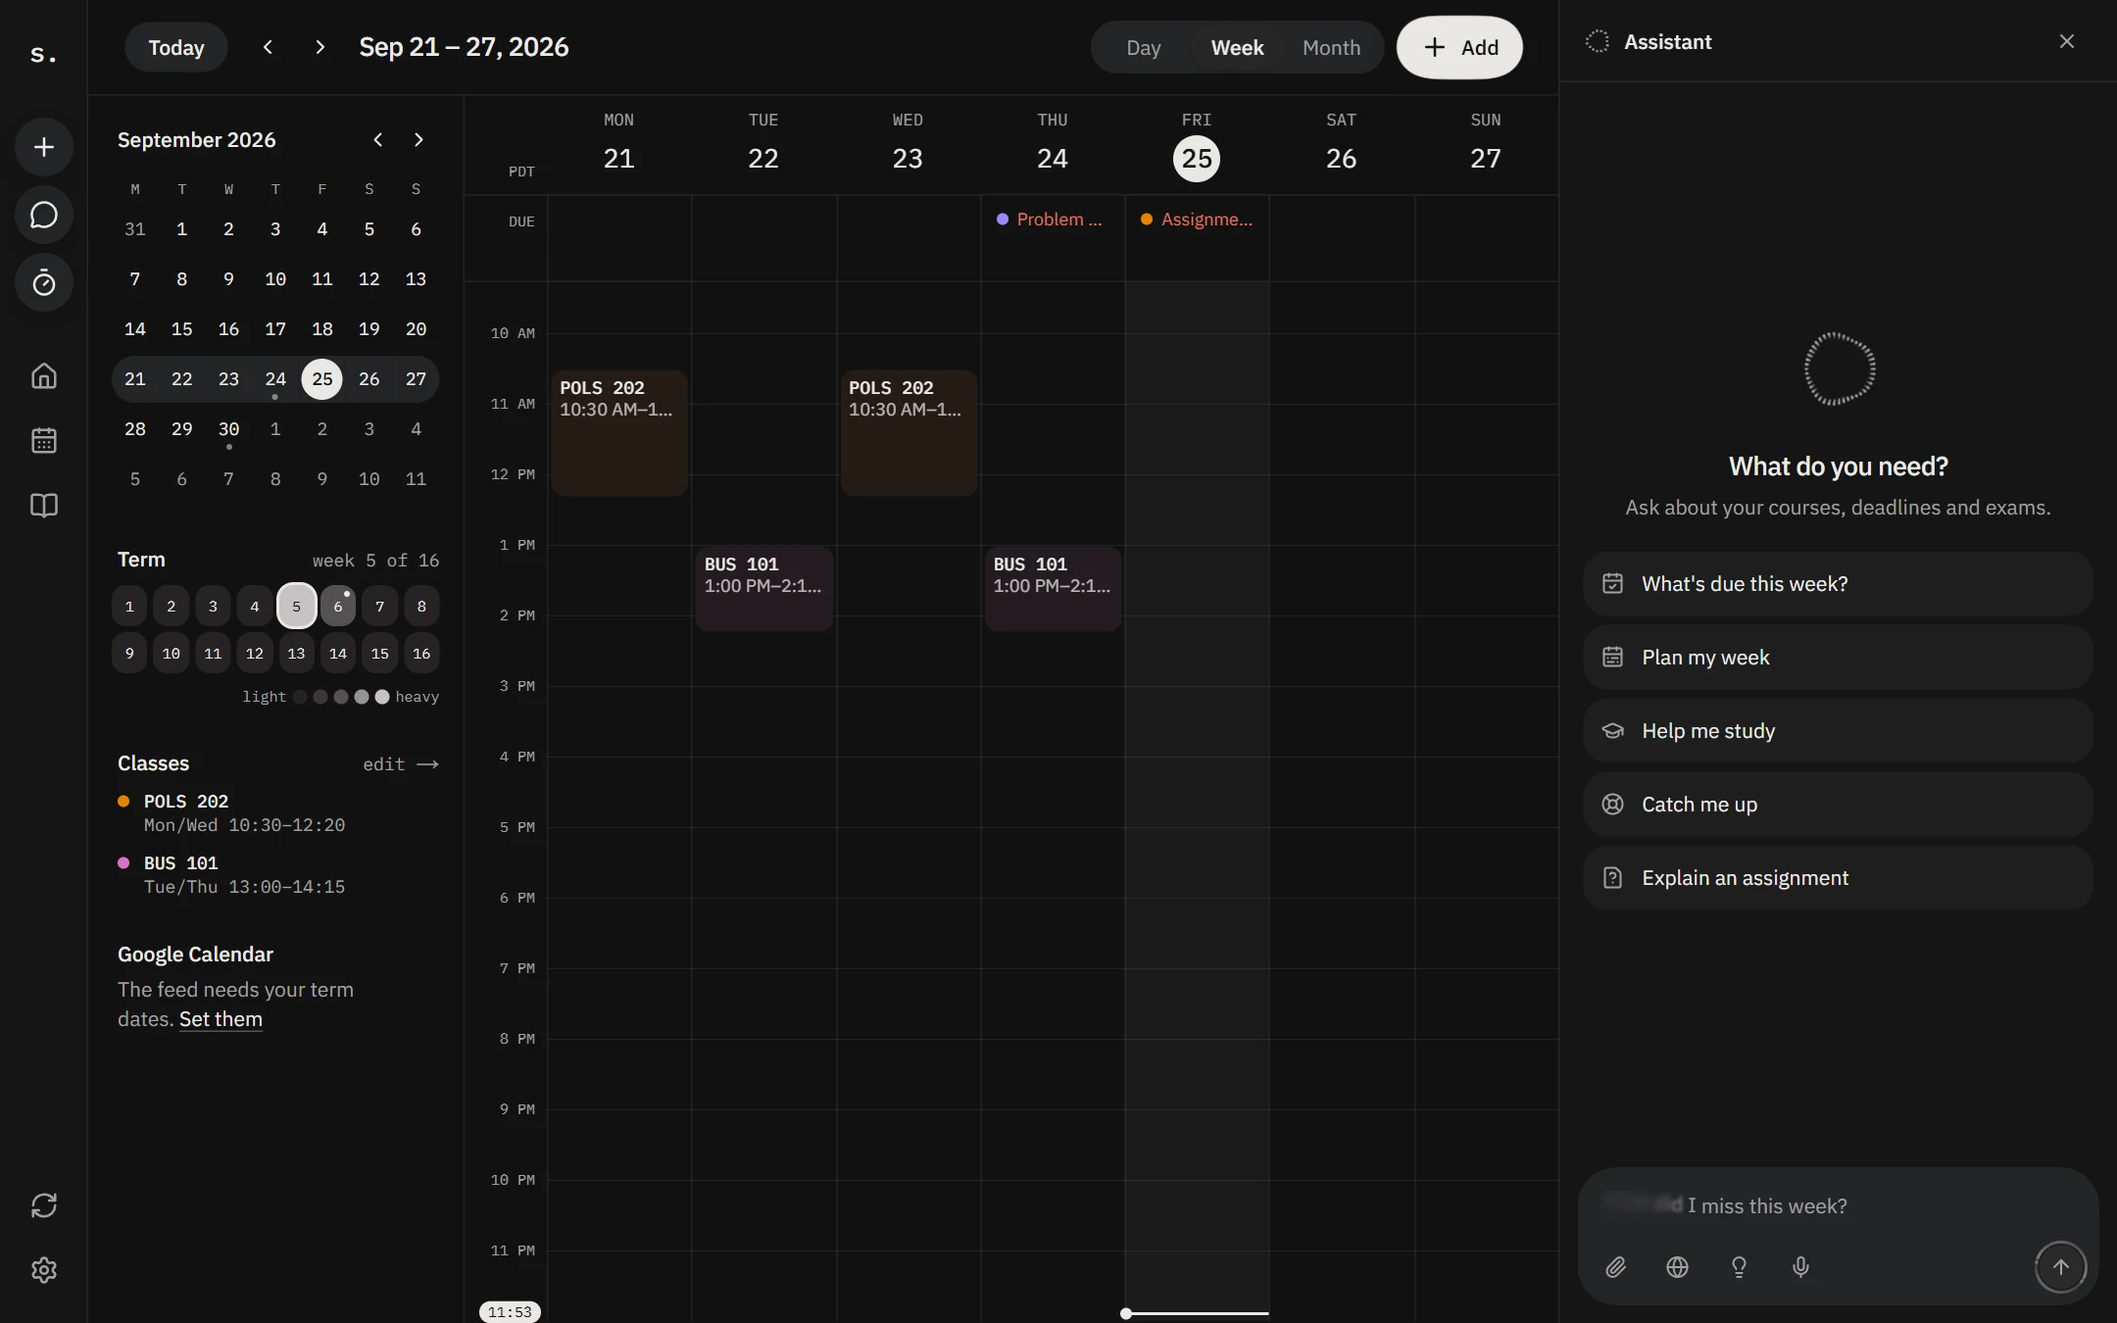
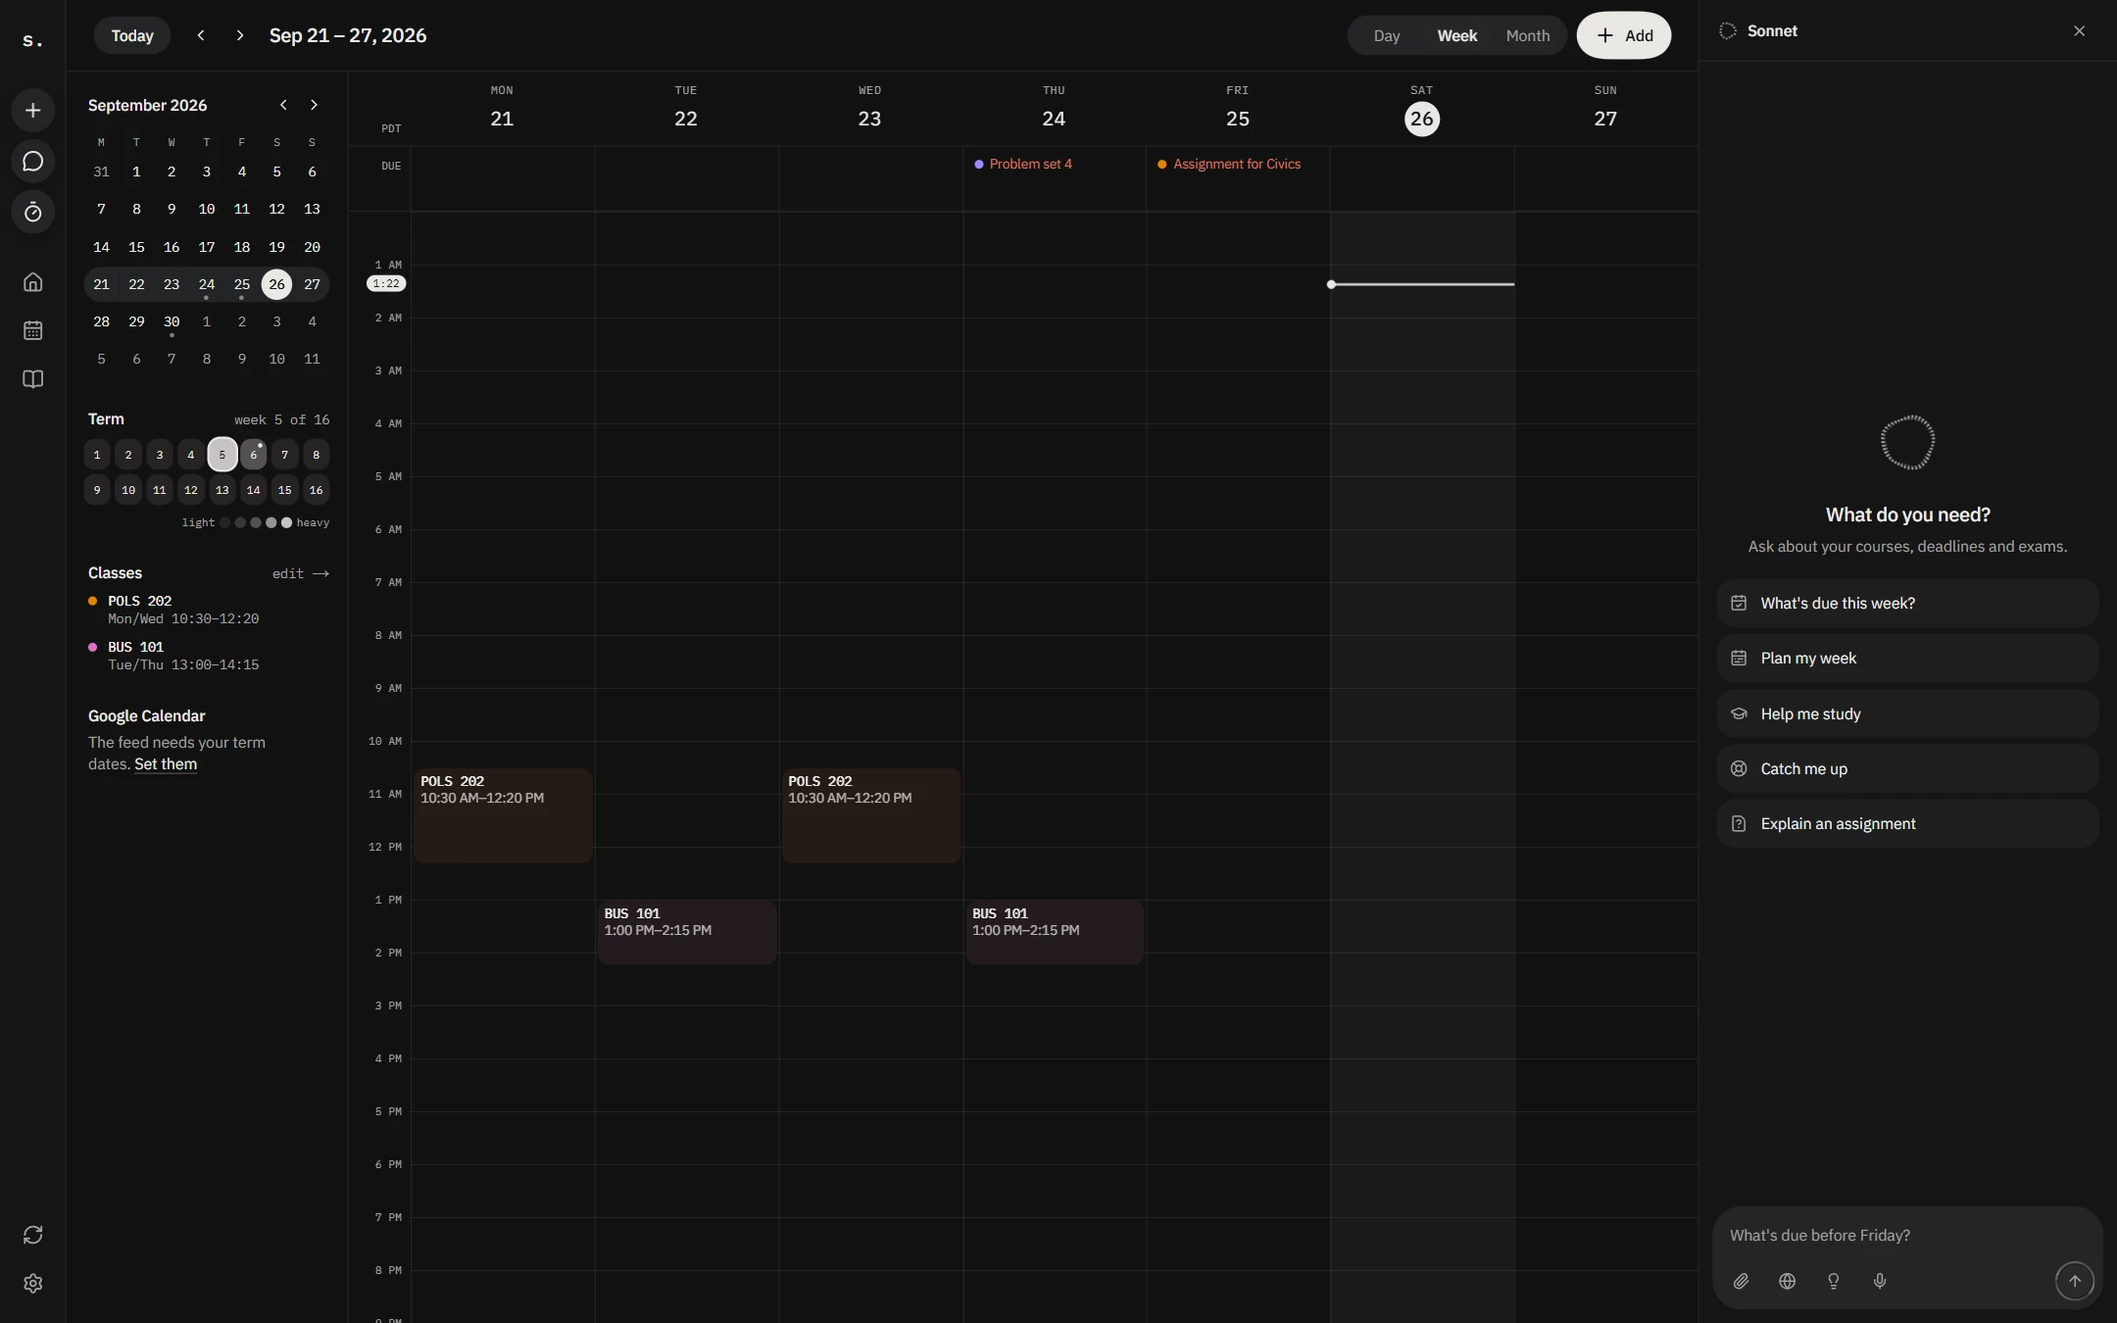
feat: the AI is named Sonnet: introduces itself as Sonnet, UI and landing say Sonnet instead of 'the assistant'; refreshed landing screenshots

diff --git a/src/app/landing/page.tsx b/src/app/landing/page.tsx
@@ -11,7 +11,7 @@ import { Showcase } from "./showcase";
 export const metadata: Metadata = {
   title: "Sonnet · Your courses, deadlines and grades in one place",
   description:
-    "An AI assistant that has read your syllabus and knows every deadline, plus Canvas sync, a calendar, grades with what-if, a customizable Home and a focus timer. Free.",
+    "Sonnet is an AI that has read your syllabus and knows every deadline, plus Canvas sync, a calendar, grades with what-if, a customizable Home and a focus timer. Free.",
   alternates: { canonical: "/" },
 };
 
@@ -49,11 +49,11 @@ const WORKS_WITH = [
 const FAQ = [
   ["Is it free?", "Yes. Sonnet is free for students."],
   [
-    "What does the assistant know?",
+    "What does Sonnet know?",
     "Every course, assignment, exam, class time and grade in Sonnet, plus the syllabus, slides, readings and notes you upload. It answers from those first, and can search the web when you ask.",
   ],
   [
-    "Is the assistant always fast?",
+    "Is Sonnet always fast?",
     "It runs on free AI models, so it can be slow or busy at times. When that happens it tells you, and you can try again.",
   ],
   [
@@ -61,7 +61,7 @@ const FAQ = [
     "If your school uses Canvas, yes: connect with a Canvas access token, the Canvas calendar feed, or both.",
   ],
   [
-    "Can the assistant change my stuff?",
+    "Can Sonnet change my stuff?",
     "Only with your okay. It proposes changes as cards you confirm; nothing saves without a yes.",
   ],
   [
@@ -72,7 +72,7 @@ const FAQ = [
 ];
 
 const PLAN = [
-  "The assistant, with your syllabus, slides and readings",
+  "Sonnet, the AI, with your syllabus, slides and readings",
   "Canvas sync and the Google Calendar feed",
   "Calendar, grades and what-if, countdowns",
   "A customizable Home with 29 widgets",
@@ -118,7 +118,7 @@ export default function Landing() {
               <div className="invisible absolute top-full -left-3 pt-3 opacity-0 transition-[opacity,visibility] duration-150 group-focus-within:visible group-focus-within:opacity-100 group-hover:visible group-hover:opacity-100">
                 <div className="flex w-64 flex-col rounded-xl border border-border bg-background/95 p-1.5 shadow-2xl backdrop-blur-md">
                   <a href="#assistant" className="rounded-lg px-3 py-2 hover:bg-accent focus-visible:bg-accent focus-visible:outline-none">
-                    <span className="block text-foreground">Assistant</span>
+                    <span className="block text-foreground">Sonnet AI</span>
                     <span className="text-xs">Knows your courses, down to the syllabus</span>
                   </a>
                   <a href="#features" className="rounded-lg px-3 py-2 hover:bg-accent focus-visible:bg-accent focus-visible:outline-none">
@@ -247,7 +247,7 @@ export default function Landing() {
             </p>
             <p>
               So it&apos;s one calm place instead: every deadline in one list, a Home you arrange yourself, and an
-              assistant that has actually read your syllabus. It&apos;s used for real classes every day, and it keeps
+              AI that has actually read your syllabus. It&apos;s used for real classes every day, and it keeps
               getting better from what students ask for.
             </p>
           </div>

diff --git a/src/app/landing/ai.tsx b/src/app/landing/ai.tsx
@@ -55,7 +55,7 @@ function SyllabusDemo() {
             <div className="min-w-0 flex-1">
               <p className="truncate font-medium">POLS202_Syllabus.pdf</p>
               <p className="text-xs text-muted-foreground" aria-live="polite">
-                {reading ? "Reading 9 pages…" : "Read. Summary saved, the assistant remembers it."}
+                {reading ? "Reading 9 pages…" : "Read. Summary saved, Sonnet remembers it."}
               </p>
             </div>
             {reading ? (
@@ -164,7 +164,7 @@ function AskDemo() {
   const shown = reduce ? full : n;
   return (
     <div ref={ref} className="flex min-h-[440px] flex-col items-center justify-center gap-4 px-4 py-12 sm:px-6 md:min-h-[500px]">
-      <Window title="Assistant · POLS 202">
+      <Window title="Sonnet · POLS 202">
         <div className="flex min-h-64 flex-col gap-3 p-4 text-sm">
           <p className="self-end rounded-2xl rounded-br-md bg-secondary px-3.5 py-2">{QA[q].q}</p>
           <p className="flex items-center gap-1.5 text-xs text-muted-foreground">
@@ -278,8 +278,8 @@ export function Assistant({ signUp }: { signUp: string }) {
   return (
     <MotionConfig reducedMotion="user">
       <section id="assistant" className="mx-auto max-w-6xl scroll-mt-24 md:px-4">
-        <SectionHead icon={Sparkles} badge="The assistant" title="It has read your syllabus." muted="And everything else.">
-          Sonnet&apos;s assistant knows every course, assignment, exam, class time and grade, plus the syllabus, slides
+        <SectionHead icon={Sparkles} badge="Meet Sonnet" title="Sonnet has read your syllabus." muted="And everything else.">
+          Sonnet knows every course, assignment, exam, class time and grade, plus the syllabus, slides
           and readings you add. Ask it anything about your classes and get answers from your own material.
         </SectionHead>
 
@@ -298,7 +298,7 @@ export function Assistant({ signUp }: { signUp: string }) {
                 href={signUp}
                 className="inline-flex h-10 w-fit items-center rounded-full bg-primary px-5 text-sm font-medium text-primary-foreground transition-[opacity,scale] hover:opacity-90 focus-visible:ring-2 focus-visible:ring-ring active:scale-[0.97]"
               >
-                Try the assistant free
+                Try Sonnet free
               </Link>
             </div>
 
@@ -373,7 +373,7 @@ function AssistantDemo() {
   const [answer, setAnswer] = useState<"added" | "skipped" | null>(null);
   return (
     <div ref={ref} className="flex min-h-[380px] items-center justify-center px-6 py-14 md:min-h-[440px]">
-      <Window title="Assistant">
+      <Window title="Sonnet">
         <div className="flex min-h-72 flex-col gap-3 p-4 text-sm">
           {step >= 1 && (
             <motion.p {...fadeUp} className="self-end rounded-2xl rounded-br-md bg-secondary px-3.5 py-2">

diff --git a/src/lib/ai.ts b/src/lib/ai.ts
@@ -500,7 +500,8 @@ export async function studentContext(
   };
 }
 
-const RULES = `You are Sonnet, the all-in-one assistant inside a college student's planner. Precise, warm, a little cheeky; never preachy.
+const RULES = `You are Sonnet, the all-in-one assistant inside a college student's planner (the app is also called Sonnet). Precise, warm, a little cheeky; never preachy.
+Your name is Sonnet. When it comes up (who are you, what's your name, hello), introduce yourself as Sonnet; never as a model, an AI brand or "the assistant".
 You're also a general assistant: help fully and directly with anything a student asks, related to their courses or not (write or debug code, draft and edit writing, solve math, explain any subject, everyday questions). Don't steer them back to their courses.
 Basic limits: decline, in one plain line and without a lecture, only clearly harmful requests: weapons or explosives, malware or breaking into accounts and systems, hurting someone, sexual content involving minors, or serious crimes. If someone mentions self-harm or suicide, be kind and point them to 988 (call or text, US) or local emergency services.
 You can: answer from their courses, work and class times; plan their week; tutor (explain, quiz, flashcards); and change anything in the planner with a tool: add, change or delete work, class times (days, times, room, or one day removed from the schedule), courses, and the semester dates. Every change becomes a card the student confirms, so when they ask for a change, call the tool right away (never say you can't, never ask "shall I?") and add one short line saying what you proposed.
@@ -663,7 +664,7 @@ export async function streamReply(
     return new Response(new Blob([readEvent, encode({ t: "text", v: taskAnswer(question, tasks) })]), {
       headers: { "Content-Type": "application/x-ndjson; charset=utf-8", "Cache-Control": "no-store" },
     });
-  if (!key) return fail("The assistant isn't set up yet: AI_API_KEY is missing.");
+  if (!key) return fail("Sonnet isn't set up yet: AI_API_KEY is missing.");
 
   const tools = toolsFor(question);
   // Asked for cards: make sure it makes them (free models otherwise stop to ask "which course?").

diff --git a/src/components/materials.tsx b/src/components/materials.tsx
@@ -332,7 +332,7 @@ export function UploadWindow({ open, course, onClose }: { open: boolean; course?
           )}
         </div>
         <p className="border-t border-border px-5 py-3 text-xs text-muted-foreground sm:px-6">
-          Next up: the assistant reads what you add here, for study guides and flashcards from your own slides.
+          Next up: Sonnet reads what you add here, for study guides and flashcards from your own slides.
         </p>
       </DialogContent>
     </Dialog>
@@ -482,10 +482,10 @@ export function Materials({ course, materials }: { course: { id: string; code: s
           </p>
           <p className="mt-0.5 text-sm text-pretty text-muted-foreground">
             {summaryNote
-              ? "Grading, policies and key dates on one page. The assistant knows the whole syllabus, so just ask."
+              ? "Grading, policies and key dates on one page. Sonnet knows the whole syllabus, so just ask."
               : hasSyllabus
                 ? "Get a one-page summary: grading, policies and key dates."
-                : "Sonnet reads it, writes a one-page summary (grading, policies, key dates) and remembers it, so you can ask the assistant anything about the course."}
+                : "Sonnet reads it, writes a one-page summary (grading, policies, key dates) and remembers it, so you can ask it anything about the course."}
           </p>
         </div>
         <div className="flex shrink-0 flex-wrap gap-2">

diff --git a/src/app/landing/hero.tsx b/src/app/landing/hero.tsx
@@ -21,7 +21,7 @@ const blurIn: Variants = {
 // The five tabs of the rotating showcase; each advances when its progress bar fills (3s, paused on hover).
 const TABS = [
   { src: "home", label: "Home", alt: "Home: progress, grades, next exam, Up next, this week and course cards" },
-  { src: "assistant", label: "Assistant", alt: "The assistant answering from a course syllabus, with a study block to confirm" },
+  { src: "assistant", label: "Ask Sonnet", alt: "Sonnet answering from a course syllabus, with a study block to confirm" },
   { src: "calendar", label: "Calendar", alt: "The calendar's week view" },
   { src: "courses", label: "Courses", alt: "All courses as colored cards" },
   { src: "course", label: "Course", alt: "One course's page with its work and materials" },
@@ -52,7 +52,7 @@ export function Hero({ signUp }: { signUp: string }) {
           All your classes, one calm place.
         </motion.h1>
         <motion.p variants={rise} className="mx-auto mt-6 max-w-xl text-lg text-pretty text-white/80">
-          An AI assistant that has read your syllabus, slides and readings, and knows every deadline, grade and class
+          Sonnet is an AI that has read your syllabus, slides and readings, and knows every deadline, grade and class
           time. Plus your Canvas work, calendar and grades in one calm place.
         </motion.p>
         <motion.div variants={rise} className="mt-8 flex flex-wrap justify-center gap-3">

diff --git a/src/components/chat/chat-panel.tsx b/src/components/chat/chat-panel.tsx
@@ -65,10 +65,10 @@ export function ChatPanel({
   }, [messages]);
 
   return (
-    <aside data-chat aria-label="Assistant" className={cn("flex flex-col bg-sidebar", className)}>
+    <aside data-chat aria-label="Sonnet" className={cn("flex flex-col bg-sidebar", className)}>
       <header className="flex h-14 shrink-0 items-center gap-2 border-b border-border px-4">
         <ThinkingOrb state="breathing" size={20} aria-hidden="true" />
-        <h2 className="text-sm font-medium">Assistant</h2>
+        <h2 className="text-sm font-medium">Sonnet</h2>
         <div className="ml-auto flex items-center">
           {messages.length > 0 && (
             <button
@@ -83,7 +83,7 @@ export function ChatPanel({
           <button
             type="button"
             onClick={onClose}
-            aria-label="Close assistant"
+            aria-label="Close Sonnet"
             className="grid size-9 place-items-center rounded-full text-muted-foreground hover:bg-accent hover:text-foreground focus-visible:ring-2 focus-visible:ring-ring"
           >
             <X className="size-4" />

diff --git a/src/components/app-shell.tsx b/src/components/app-shell.tsx
@@ -216,7 +216,7 @@ export function AppShell({
         throw new Error(
           res.status === 413
             ? "Those files are too big to send together. Try fewer photos."
-            : ((await res.json().catch(() => null))?.error ?? "Couldn't reach the assistant."),
+            : ((await res.json().catch(() => null))?.error ?? "Couldn't reach Sonnet."),
         );
       // An expired session gets redirected to the login page (HTML), not the answer stream.
       if (res.headers.get("content-type")?.includes("text/html")) throw new Error("Your session ended. Sign in again.");
@@ -462,7 +462,7 @@ export function AppShell({
                 <button
                   type="button"
                   onClick={openAssistant}
-                  aria-label="Ask the assistant (Ctrl+K)"
+                  aria-label="Ask Sonnet (Ctrl+K)"
                   className="grid size-12 place-items-center rounded-full bg-foreground shadow-lg transition-transform active:scale-95"
                 >
                   <ThinkingOrb

diff --git a/src/app/landing/features.tsx b/src/app/landing/features.tsx
@@ -55,7 +55,7 @@ const EVERYTHING = [
   {
     icon: FolderOpen,
     title: "Materials per course",
-    text: "Slides, readings and notes live with their course, ready for the assistant.",
+    text: "Slides, readings and notes live with their course, ready for Sonnet.",
   },
   {
     icon: GraduationCap,
@@ -902,8 +902,8 @@ export function Features({ signUp }: { signUp: string }) {
               </h3>
               <p className="text-pretty text-muted-foreground">
                 A Home you build yourself, one calendar, grades, countdowns, a
-                focus timer and every file for every course. All of it feeds the
-                assistant.
+                focus timer and every file for every course. All of it feeds
+                Sonnet.
               </p>
               <Link
                 href={signUp}

diff --git a/src/components/syllabus-summary.tsx b/src/components/syllabus-summary.tsx
@@ -39,7 +39,7 @@ export function SummaryDialog({
         <div className="border-b border-border px-5 pt-5 pb-4 sm:px-6">
           <DialogTitle className="text-lg font-medium tracking-tight">Syllabus summary</DialogTitle>
           <DialogDescription className="mt-1">
-            {course}. The assistant keeps the full syllabus, so ask it anything this page leaves out.
+            {course}. Sonnet keeps the full syllabus, so ask it anything this page leaves out.
           </DialogDescription>
         </div>
         <div className="min-h-0 flex-1 overflow-y-auto px-5 py-4 text-sm leading-relaxed sm:px-6">

diff --git a/src/app/actions.ts b/src/app/actions.ts
@@ -509,7 +509,7 @@ export async function readSyllabus(
 
 // One non-streamed answer about a syllabus (the paid default model, free ones as fallback).
 async function askSyllabus(system: string, body: string): Promise<{ text: string } | { error: string }> {
-  if (!process.env.AI_API_KEY) return { error: "The assistant isn't set up yet: AI_API_KEY is missing." };
+  if (!process.env.AI_API_KEY) return { error: "Sonnet isn't set up yet: AI_API_KEY is missing." };
   const ask = () =>
     complete({
       ...(MODELS.length > 1 ? { models: MODELS } : { model: MODELS[0] }),

diff --git a/src/components/courses.tsx b/src/components/courses.tsx
@@ -237,7 +237,7 @@ function ClassTimes({ course, meetings }: { course: { id: string; code: string }
   return (
     <div className="flex flex-col gap-1">
       {sorted.length === 0 && !adding && (
-        <p className="text-sm text-muted-foreground">When does it meet? The calendar and the assistant use this.</p>
+        <p className="text-sm text-muted-foreground">When does it meet? The calendar and Sonnet use this.</p>
       )}
       {sorted.map((m) => (
         <div key={m.id} className="flex items-center justify-between gap-2 text-sm">

diff --git a/src/app/landing/showcase.tsx b/src/app/landing/showcase.tsx
@@ -119,7 +119,7 @@ function SyncDemo({ signUp }: { signUp: string }) {
 
 const STEPS = [
   ["Connect Canvas", "Paste an access token or your Canvas calendar link. Courses, deadlines and grades come in."],
-  ["Add your syllabus", "Upload the syllabus, slides and readings. The assistant reads them and remembers."],
+  ["Add your syllabus", "Upload the syllabus, slides and readings. Sonnet reads them and remembers."],
   ["Open Home and ask", "Your week is laid out. Ask \"what should I do next?\" and get a real answer."],
 ];
 
